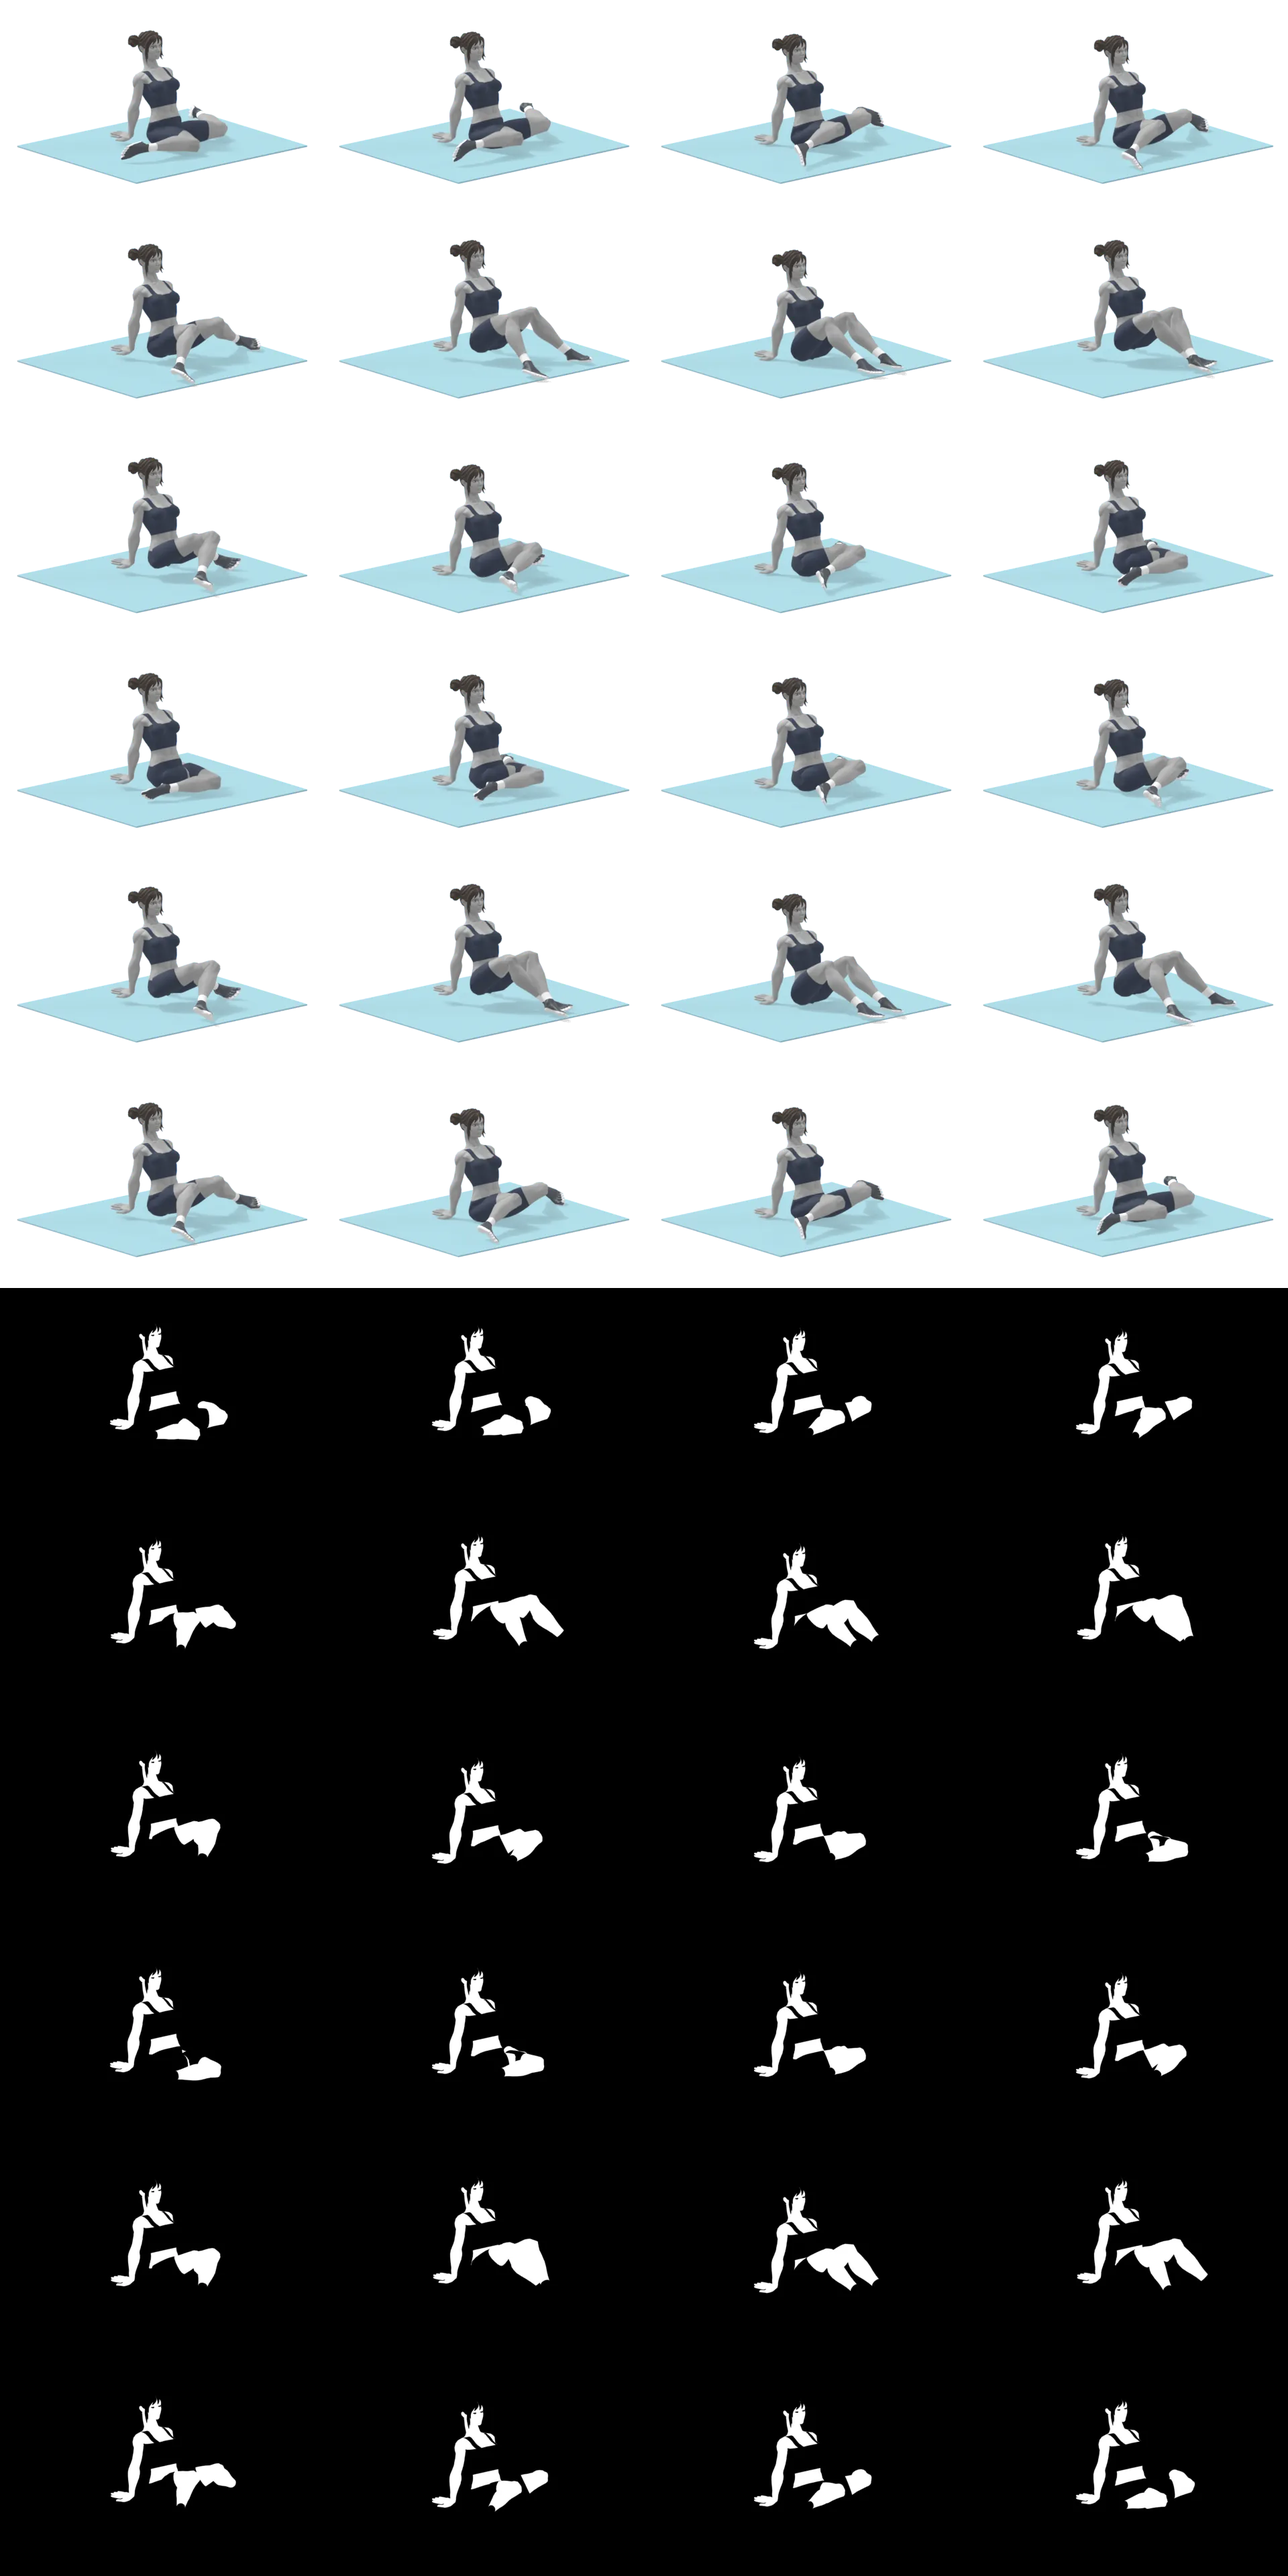
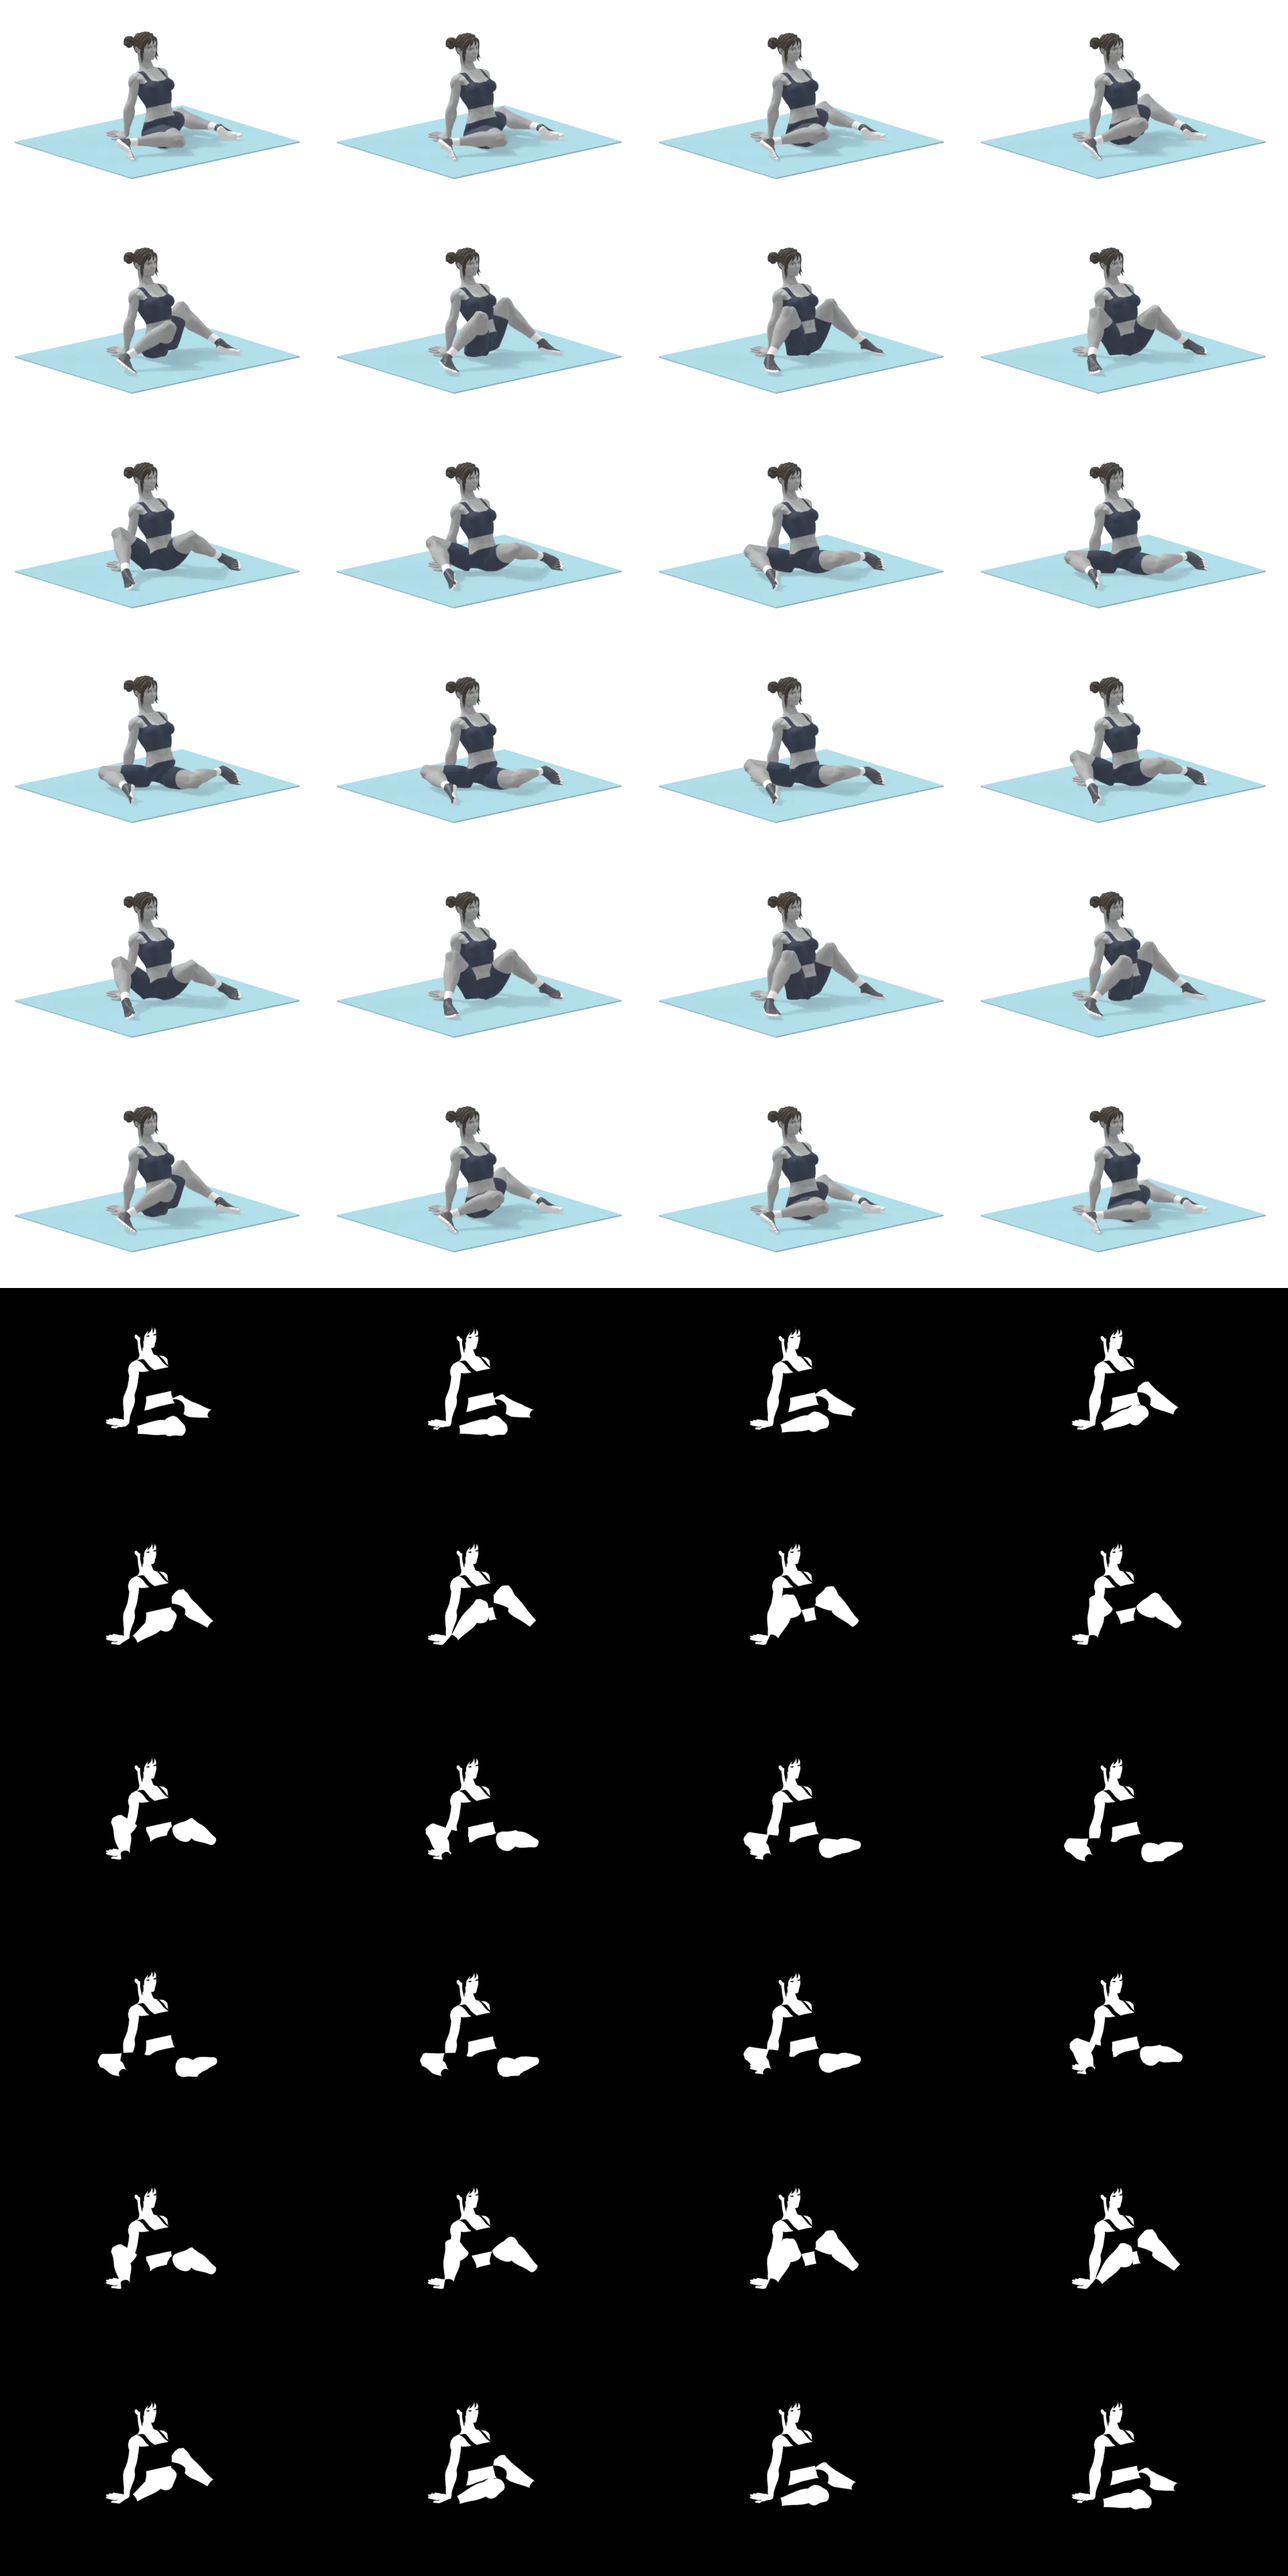
90/90 hip switches: restore knee-drop movement without warped legs (v22)
- Back to the windscreen-wiper legs (heels planted wide, knees drop to
  one side, rise, drop to the other) with the v21 upper body
- Rig: the 100-degree femur roll cap skipped the roll the trailing knee
  needs, so it bent backwards (thinning/bulging); a key can now raise it
  (thighlim), used only by this exercise

diff --git a/index.html b/index.html
@@ -305,7 +305,7 @@ td:first-child{font:700 15px var(--f-display);white-space:nowrap;color:var(--acc
   </form>
 </dialog>
 
-<script src="track.js?v=21"></script><!-- ?v= forces a fresh copy past old service workers / HTTP cache; match sw.js VERSION -->
+<script src="track.js?v=22"></script><!-- ?v= forces a fresh copy past old service workers / HTTP cache; match sw.js VERSION -->
 <script>
 const ICONS = {
   play:'<polygon points="6 3 20 12 6 21 6 3"/>',
@@ -336,7 +336,7 @@ const demoLink = n => DEMO[n]
   : `<a class="iconlink" href="${yt(n)}" target="_blank" rel="noopener" aria-label="Watch ${esc(n)} demo (opens YouTube)">${ic("ext")}</a>`;
 // Exercise name -> demo template (demos/m|f/<template>.webp): Blender renders posed from reference-photo pose estimation (tools/).
 const DEMO = {"90/90 hip switches":"hip-switch","Ab wheel rollout (from knees)":"ab-wheel","Band-bar Romanian deadlift":"bb-rdl-home","Band-bar bent-over row":"bb-bent-row-home","Band-bar biceps curl":"bb-curl-home","Band-bar deadlift":"bb-deadlift-home","Band-bar seated row":"bb-seated-row-home","Banded glute bridge, feet on couch":"band-bridge-couch","Bear plank shoulder taps":"bear-taps","Bird dog":"bird-dog","Cat-cow + thread the needle":"cat-cow","Cat–cow":"cat-cow","Chair T-spine extension + world's greatest stretch + child's pose lat stretch":"t-spine-chair","Child's pose with side reach":"childs-pose","Chin tucks":"chin-tuck","Couch stretch":"couch-stretch","Cross-body crunch":"cross-crunch","Crunch (small range)":"crunch","Dead bug":"dead-bug","Dead bug (slow)":"dead-bug","Door towel row":"door-towel-row","Doorway or seated pec stretch":"pec-stretch","Doorway pec stretch":"pec-stretch","Figure-4 stretch + hip flexor stretch":"figure-4","Floor Y-T-W, no weight":"floor-ytw","Floor snow angels":"snow-angel","Front plank":"front-plank","Glute bridge":"glute-bridge","Glute squeezes":"glute-squeeze","Half-kneeling hip flexor stretch":"hk-hip-flexor","Hip hinge to wall":"hip-hinge-wall","Loaded backpack or shopping-bag carry":"bag-carry","Long neighbourhood walk":"walk","Lying hamstring stretch (towel) + couch stretch":"lying-ham-towel","McGill curl-up":"mcgill","Mini-band W pull-apart":"band-w","Mini-band glute bridge":"mb-bridge-home","Mini-band lateral walk or clamshell":"lateral-walk","Mini-band pull-apart":"band-pull-apart","Mini-band pulldown":"mb-pulldown-home","Neighbourhood walk":"walk","Pause push-up":"push-up","Plank shoulder taps":"shoulder-taps","Plank with reach":"plank-reach","Prone T raise":"prone-t","Prone W lift":"prone-w","Prone floor row":"prone-row","Prone swimmers":"swimmers","Prone towel pulldown":"prone-towel-pulldown","Push-up (hands elevated if needed)":"incline-push-up","Push-up plus":"push-up-plus","Reverse crunch":"reverse-crunch","Reverse lunge":"rev-lunge","Shoulder blade squeezes":"scap-squeeze","Side plank (knees or feet)":"side-plank","Side plank clamshell":"clamshell","Single-leg RDL":"single-leg-rdl-support","Single-leg RDL (hold a support)":"single-leg-rdl-support","Single-leg glute bridge":"single-leg-bridge","Slow reverse lunge":"rev-lunge","Slow step-down from stairs":"stair-step-down","Stair step-up":"stair-step","Standing hip flexor stretch":"standing-hip-flexor","Supine chin tuck + head lift":"supine-chin-tuck","Supported split squat":"supported-split","Tempo walk":"walk","Thoracic extension over chair":"t-spine-chair","Thoracic open book":"open-book","Tucked hollow hold":"tuck-hollow","Walk intervals":"walk","Wall Y-slide with lift-off":"wall-slide-liftoff","Wall chin tuck":"wall-chin-tuck","Wall sit or slow squat to a chair":"chair-squat","Wall slide with lift-off":"wall-slide-liftoff","Wall slides":"wall-slides"};
-const DM = {"ab-wheel":[12,6,0,"d9fa6081"],"bag-carry":[20,5,1,"f7d3a649"],"band-bridge-couch":[12,6,0,"c85a01a8"],"band-pull-apart":[12,6,0,"fffbbfdb"],"band-w":[24,6,0,"3f0acb6d"],"bb-bent-row-home":[12,6,0,"0b7fc1cb"],"bb-curl-home":[12,6,0,"408a3778"],"bb-deadlift-home":[12,6,0,"ebd18df5"],"bb-rdl-home":[12,6,0,"a6ceeb22"],"bb-seated-row-home":[12,6,0,"09907d24"],"bear-taps":[24,6,0,"a3cbf918"],"bird-dog":[24,6,0,"13cd70dd"],"cat-cow":[12,6,0,"fcb6f096"],"chair-squat":[12,6,0,"9e4816c3"],"childs-pose":[1,1,0,"4e72f84b"],"chin-tuck":[12,6,0,"5db388d7"],"clamshell":[12,6,0,"67688a83"],"couch-stretch":[1,1,0,"69dad932"],"cross-crunch":[24,6,0,"b394ef61"],"crunch":[12,6,0,"38cd3839"],"dead-bug":[24,6,0,"52d4a6dd"],"door-towel-row":[12,6,0,"5063a759"],"figure-4":[12,6,0,"09fc5399"],"floor-ytw":[48,6,0,"6b1a2b17"],"front-plank":[1,1,0,"6e974a21"],"glute-bridge":[12,6,0,"e0db9353"],"glute-squeeze":[1,1,0,"2fc5b31e"],"hip-hinge-wall":[12,6,0,"0f70bae7"],"hip-switch":[24,3,0,"dc7973cf"],"hk-hip-flexor":[1,1,0,"67d727a8"],"incline-push-up":[12,6,0,"8419d550"],"lateral-walk":[12,6,0,"5c783af8"],"lying-ham-towel":[12,6,0,"f085da44"],"mb-bridge-home":[12,6,0,"0e8dc2ce"],"mb-pulldown-home":[12,6,0,"2e58e3ee"],"mcgill":[12,6,0,"705c0472"],"open-book":[24,6,0,"c182c593"],"pec-stretch":[1,1,0,"6ae20106"],"plank-reach":[24,6,0,"5151186a"],"prone-row":[36,6,0,"6f6221ca"],"prone-t":[12,6,0,"77721c23"],"prone-towel-pulldown":[12,6,0,"625b2e15"],"prone-w":[12,6,0,"2afbd33c"],"push-up":[12,6,0,"a1f3edca"],"push-up-plus":[12,6,0,"5c4a832f"],"rev-lunge":[12,6,0,"c1bc3b2e"],"reverse-crunch":[12,6,0,"27b132b5"],"scap-squeeze":[12,6,0,"023da0e9"],"shoulder-taps":[24,6,0,"c95e5617"],"side-plank":[1,1,0,"b3bc47f7"],"single-leg-bridge":[12,6,0,"e7c7f2a1"],"single-leg-rdl-support":[12,6,0,"e3ef58c4"],"snow-angel":[24,6,0,"0dab6118"],"stair-step":[12,6,0,"03671681"],"stair-step-down":[24,6,0,"3bd50868"],"standing-hip-flexor":[12,6,0,"e4fc33a5"],"supine-chin-tuck":[12,6,0,"39a06743"],"supported-split":[12,6,0,"dcb5f458"],"swimmers":[36,6,0,"481423e6"],"t-spine-chair":[12,6,0,"78e6886a"],"tuck-hollow":[1,1,0,"13ff9ca7"],"walk":[20,5,1,"bb612be4"],"wall-chin-tuck":[12,6,0,"9ac1804b"],"wall-slide-liftoff":[24,6,0,"faa1df63"],"wall-slides":[12,6,0,"7ac34be4"]}; // template -> [frames, frames per key, cyclic, sprite hash]
+const DM = {"ab-wheel":[12,6,0,"d9fa6081"],"bag-carry":[20,5,1,"f7d3a649"],"band-bridge-couch":[12,6,0,"c85a01a8"],"band-pull-apart":[12,6,0,"fffbbfdb"],"band-w":[24,6,0,"3f0acb6d"],"bb-bent-row-home":[12,6,0,"0b7fc1cb"],"bb-curl-home":[12,6,0,"408a3778"],"bb-deadlift-home":[12,6,0,"ebd18df5"],"bb-rdl-home":[12,6,0,"a6ceeb22"],"bb-seated-row-home":[12,6,0,"09907d24"],"bear-taps":[24,6,0,"a3cbf918"],"bird-dog":[24,6,0,"13cd70dd"],"cat-cow":[12,6,0,"fcb6f096"],"chair-squat":[12,6,0,"9e4816c3"],"childs-pose":[1,1,0,"4e72f84b"],"chin-tuck":[12,6,0,"5db388d7"],"clamshell":[12,6,0,"67688a83"],"couch-stretch":[1,1,0,"69dad932"],"cross-crunch":[24,6,0,"b394ef61"],"crunch":[12,6,0,"38cd3839"],"dead-bug":[24,6,0,"52d4a6dd"],"door-towel-row":[12,6,0,"5063a759"],"figure-4":[12,6,0,"09fc5399"],"floor-ytw":[48,6,0,"6b1a2b17"],"front-plank":[1,1,0,"6e974a21"],"glute-bridge":[12,6,0,"e0db9353"],"glute-squeeze":[1,1,0,"2fc5b31e"],"hip-hinge-wall":[12,6,0,"0f70bae7"],"hip-switch":[24,3,0,"a4d6d20c"],"hk-hip-flexor":[1,1,0,"67d727a8"],"incline-push-up":[12,6,0,"8419d550"],"lateral-walk":[12,6,0,"5c783af8"],"lying-ham-towel":[12,6,0,"f085da44"],"mb-bridge-home":[12,6,0,"0e8dc2ce"],"mb-pulldown-home":[12,6,0,"2e58e3ee"],"mcgill":[12,6,0,"705c0472"],"open-book":[24,6,0,"c182c593"],"pec-stretch":[1,1,0,"6ae20106"],"plank-reach":[24,6,0,"5151186a"],"prone-row":[36,6,0,"6f6221ca"],"prone-t":[12,6,0,"77721c23"],"prone-towel-pulldown":[12,6,0,"625b2e15"],"prone-w":[12,6,0,"2afbd33c"],"push-up":[12,6,0,"a1f3edca"],"push-up-plus":[12,6,0,"5c4a832f"],"rev-lunge":[12,6,0,"c1bc3b2e"],"reverse-crunch":[12,6,0,"27b132b5"],"scap-squeeze":[12,6,0,"023da0e9"],"shoulder-taps":[24,6,0,"c95e5617"],"side-plank":[1,1,0,"b3bc47f7"],"single-leg-bridge":[12,6,0,"e7c7f2a1"],"single-leg-rdl-support":[12,6,0,"e3ef58c4"],"snow-angel":[24,6,0,"0dab6118"],"stair-step":[12,6,0,"03671681"],"stair-step-down":[24,6,0,"3bd50868"],"standing-hip-flexor":[12,6,0,"e4fc33a5"],"supine-chin-tuck":[12,6,0,"39a06743"],"supported-split":[12,6,0,"dcb5f458"],"swimmers":[36,6,0,"481423e6"],"t-spine-chair":[12,6,0,"78e6886a"],"tuck-hollow":[1,1,0,"13ff9ca7"],"walk":[20,5,1,"bb612be4"],"wall-chin-tuck":[12,6,0,"9ac1804b"],"wall-slide-liftoff":[24,6,0,"faa1df63"],"wall-slides":[12,6,0,"7ac34be4"]}; // template -> [frames, frames per key, cyclic, sprite hash]
 const demoCanvas = n => `<canvas data-demo="${DEMO[n]}" width="480" height="320" role="img" aria-label="${esc(n)} demonstration"></canvas>`;
 const yt = q => "https://www.youtube.com/results?search_query=" + encodeURIComponent(q + " proper form");
 

diff --git a/sw.js b/sw.js
@@ -1,6 +1,6 @@
 // Bump VERSION after editing any (non-demo) file; it derives the precached track.js?v= below too, so
 // also bump the matching <script src="track.js?v="> in index.html to the same number.
-const VERSION = "v21";
+const VERSION = "v22";
 const TRACKJS = "track.js?v=" + VERSION.slice(1);
 const CORE = ["./", "index.html", TRACKJS, "manifest.webmanifest", "icon.svg", "icon-192.png", "icon-512.png"];
 

diff --git a/tools/rig.py b/tools/rig.py
@@ -80,11 +80,13 @@ def roll_to(name, want, max_deg=None):
     deg = math.degrees(math.atan2(ax.dot(cur.cross(want)), cur.dot(want)))
     if max_deg is None or abs(deg) <= max_deg: tilt(name, tuple(ax), deg)
 
+THIGH_ROLL_LIM = 100   # largest femur roll hinge() applies; a key's thighlim raises it (90/90: the knee drops inward past it)
+
 def hinge(upper, lower_dir, straight_hint=None):
     """Elbows and knees are hinges: roll the upper bone so the joint bends only toward the lower segment.
     Nearly straight limbs take the roll from straight_hint (e.g. knee faces where the toes point)."""
     ud = bone_dir(upper); bend = lower_dir - ud * lower_dir.dot(ud)
-    lim = None if upper.startswith("upperarm") else 100     # the humerus rotates freely; a femur never spins round
+    lim = None if upper.startswith("upperarm") else THIGH_ROLL_LIM   # the humerus rotates freely; a femur never spins round
     if bend.length > 0.12: roll_to(upper, bend, lim)
     elif straight_hint is not None: roll_to(upper, straight_hint, lim)
 
@@ -140,6 +142,7 @@ def apply_pose(P):
         # foot bone runs ankle -> ball, sloping 26 deg down when the sole is flat (pitch 64); planted shins are near vertical
         fp = g[4] if len(g) > 4 else (FOOT_FLAT if -50 <= g[2] <= 50 else g[2] + 90)
         fl = g[5] if len(g) > 5 else 0
+        global THIGH_ROLL_LIM; THIGH_ROLL_LIM = P.get("thighlim", 100)
         aim("thigh_" + s, d(g[0], g[1], sg)); hinge("thigh_" + s, d(g[2], g[3], sg), -d(90 if -15 <= fp <= 110 else fp, fl, sg))
         aim("calf_" + s, bent("thigh_" + s, d(g[2], g[3], sg)))
         aim("foot_" + s, d(fp, fl, sg))

diff --git a/tools/catalog.py b/tools/catalog.py
@@ -1984,3 +1984,12 @@ ST0 = dict(T=172, S=174, N=178, H=180, legL=[58, 6, -5, 6], legR=[0, 6, 0, 6], a
 ST1 = dict(T=178, S=178, N=180, H=182, legL=[0, 6, 0, 6], legR=[34, 6, -16, 6], armL=[10, 8, 25, 8], armR=[10, 8, 25, 8])
 _t("stair-step").update(keys=[P(**ST0), dict(P(**ST1), anchor={"z": ("ankle_l", None), "x": ("ankle_l", None)})], anchor={}, stance=None,
                         plant=["foot_l"], free=["foot_r"], hands="relaxed", cam=dict(az=-70, el=8))
+# v22: 90/90 legs back to the v20 windscreen wipers (heels stay planted wide on the mat, both knees drop to one side, rise
+# and drop to the other: the correct movement), with the v21 upper body (sitting tall on straight arms, palms flat behind).
+# HS_AMP below 90 keeps each femur inside its roll range at the bottom; at 90 the thighs over-rotated (thinning, bulging).
+HS_AMP = 85
+HSW_ANK.update({"l": (0.14, 0.48, 0.12), "r": (0.14, -0.48, 0.12)})   # heels sat 3-8 cm into the mat with the taller v21 trunk
+def _hs_wiper(amp):
+    return [P(T=200, S=198, N=194, H=188, legL=HSW_leg("l", amp * _m.cos(2 * _m.pi * f / 24)), legR=HSW_leg("r", amp * _m.cos(2 * _m.pi * f / 24)),
+              thighlim=180, **ARMS((-0.25, 0.3, -0.92))) for f in range(24)]   # the trailing knee drops inward past the default 100 deg roll cap: without this it bent backwards
+_t("hip-switch").update(keys=_hs_wiper(HS_AMP), steps=1, reach=HS_HANDS, plant=["foot_l", "foot_r"])
